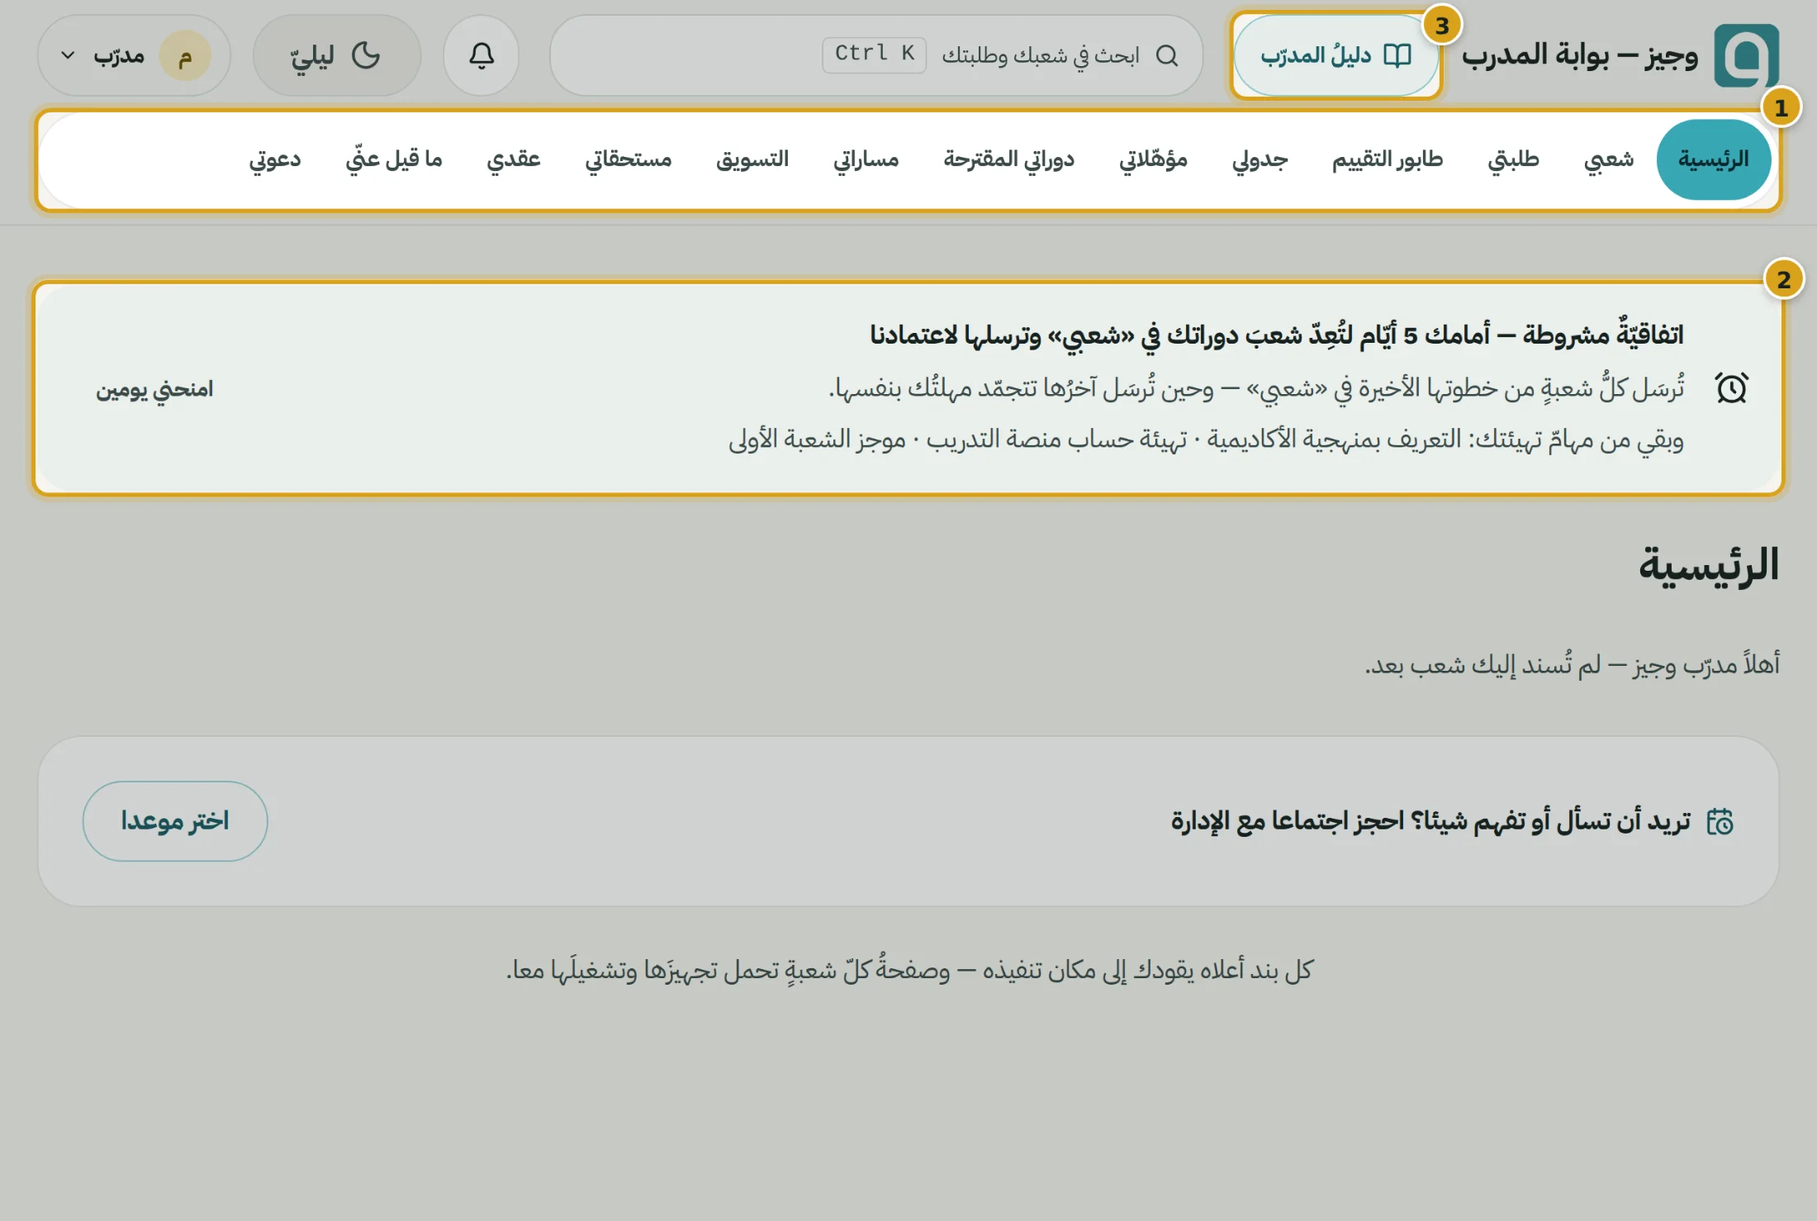
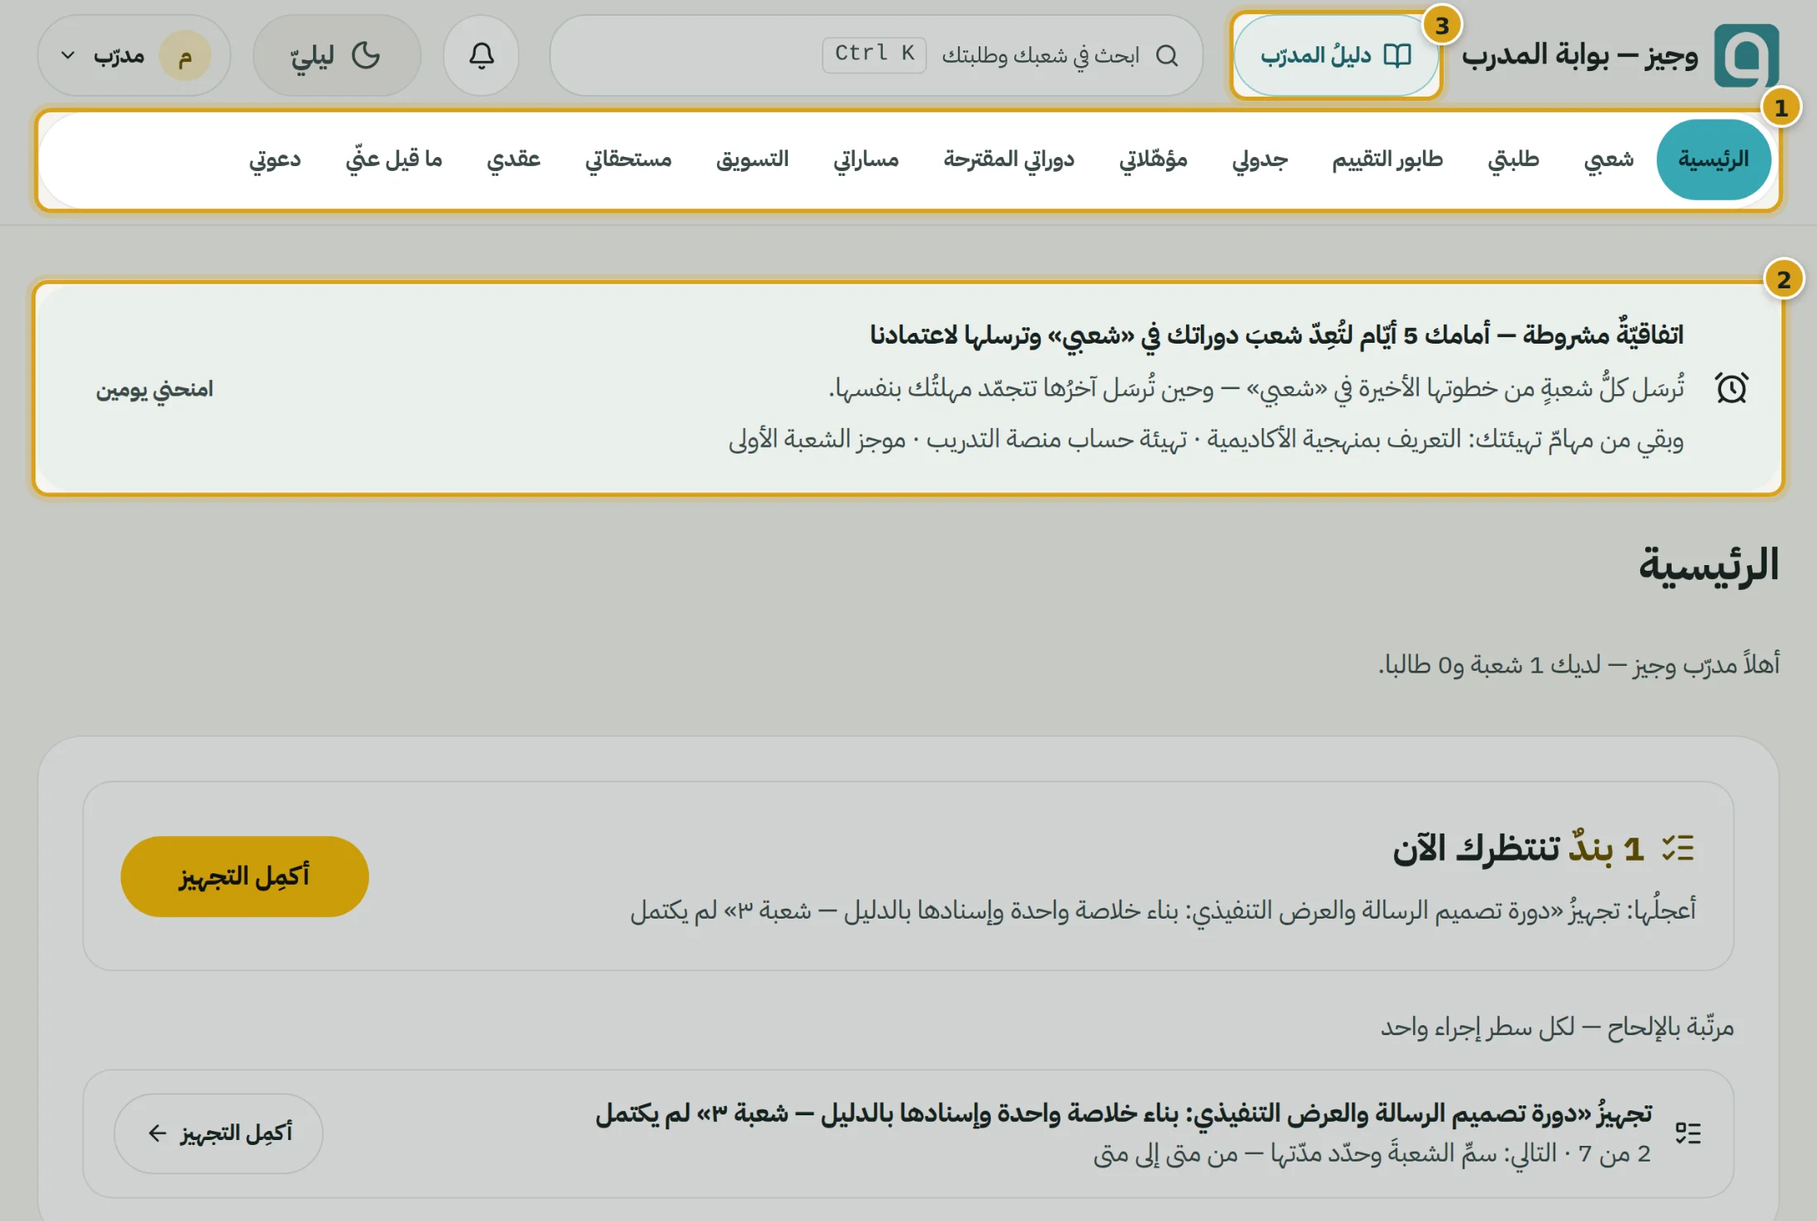
شريطُ التبويبات على الهاتف يملأ فسحتَه — وما بقي في «المزيد» (#425)
قرارُ صاحب المنصّة (٣ أكتوبر ٢٠٢٦) على صورة الهاتف — الرئيسيةُ وشعبي
وطلبتي ثمّ فراغٌ ثمّ «المزيد»: «make them appear more and what left goes
to المزيد».

· `nav-fit.ts`: `fitIndices` بدل `fitCount` — يُملأ ما بقي بالترتيب مع
  التخطّي: عريضٌ لا يسع («طابورُ التقييم» بشارته) لا يحجب ضيّقا بعده. ويُعيد
  مواضعَ المعروض، و«المزيد» يأخذ ما سواها بعينه.
· `NavPill`: حشوٌ أضيقُ دون `sm` (٨ بكسلات لا ١٢) — والحرفُ وهدفُ اللمس كما
  هما، والحاسوبُ كما كان.
· قِيس: ٣٩٠ ← أربعةٌ و«المزيد» (كانت ثلاثة)، ٤٣٠ ← خمسة.
· لقطاتُ الدليل الثلاث التي تُظهر الشريطَ أُعيد التقاطُها.
· الحارسان حُدّثا للبنية الجديدة، وحارسُ التخطّي رُئي ساقطا بالعدّ القديم.

لا تغيّرَ في رقمٍ يُقبض أو يُخصم.

Claude-Session: https://claude.ai/code/session_01KvWc79RrumheVsskoZYsA3

diff --git a/src/components/ui/PortalTabs.tsx b/src/components/ui/PortalTabs.tsx
@@ -14,7 +14,7 @@
  * صفٌّ ثانٍ لا يُرى (`invisible` و`aria-hidden`) يحمل **كلَّ** التبويبات وزرَّ
  * «المزيد» بعرضها الطبيعيّ، ويُقرأ منه عرضُ كلِّ حبّة. والصفُّ المرئيُّ لا يصلح
  * للقياس: ما خرج منه لا عرضَ له، فلا يُعرف متى يعود إن اتّسعت الشاشة. ثمّ تقرّر
- * `fitCount` كم يُعرض (`ui/nav-fit.ts`).
+ * `fitIndices` أيَّها يُعرض (`ui/nav-fit.ts`).
  *
  * و`ResizeObserver` على الاثنين: على الفسحة لأنّ عرضَها يتبدّل بالشاشة وبمعامل
  * التكبير `--app-scale`، وعلى صفّ الأشباح لأنّ عرضَ الحبّات يتبدّل بالخطّ حين
@@ -92,7 +92,7 @@ import { useLocation } from 'react-router'
 import { ChevronDown, type LucideIcon } from 'lucide-react'
 import { Inset } from '@/components/ui/Surface'
 import { NavPill, NavPillButton, NavPillGhost, NavPillMenuItem, type PillLook } from '@/components/ui/NavPill'
-import { fitCount, reservedCount } from '@/components/ui/nav-fit'
+import { fitIndices, reservedCount } from '@/components/ui/nav-fit'
 
 /** تبويبٌ في شريط البوّابة — وترتيبُه في القائمة أولويّتُه: ما يخرج أوّلا آخرُها */
 export interface PortalTab {
@@ -215,7 +215,8 @@ export interface PortalTabsProps {
 export function PortalTabs({ tabs, label, look = 'teal', fill = true, countLabel, className = '' }: PortalTabsProps) {
   const slotRef = useRef<HTMLDivElement>(null)
   const ghostRef = useRef<HTMLDivElement>(null)
-  const [shown, setShown] = useState(tabs.length)
+  /* مواضعُ المعروض لا عددُه — الملءُ يتخطّى العريضَ إلى ضيّقٍ بعده (`fitIndices`) */
+  const [shown, setShown] = useState<number[] | null>(null)
   const { pathname } = useLocation()
 
   useLayoutEffect(() => {
@@ -236,8 +237,8 @@ export function PortalTabs({ tabs, label, look = 'teal', fill = true, countLabel
       const all = [...rects, more]
       const span = Math.max(...all.map((r) => r.right)) - Math.min(...all.map((r) => r.left))
       const chrome = Math.max(0, ghost.getBoundingClientRect().width - span)
-      const next = fitCount(rects.map((r) => r.width), gap, more.width, slot.getBoundingClientRect().width - chrome)
-      flushSync(() => setShown(next))
+      const next = fitIndices(rects.map((r) => r.width), gap, more.width, slot.getBoundingClientRect().width - chrome)
+      flushSync(() => setShown((prev) => (prev && prev.join() === next.join() ? prev : next)))
     }
     const ro = new ResizeObserver(measure)
     ro.observe(slot)
@@ -250,18 +251,20 @@ export function PortalTabs({ tabs, label, look = 'teal', fill = true, countLabel
   const gap = chip ? 'gap-1.5' : ''
   const counted = tabs.filter((t) => t.count !== undefined)
   const waitingAll = counted.length ? counted.reduce((sum, t) => sum + (t.count ?? 0), 0) : undefined
+  const visible = shown ? shown.map((i) => tabs[i]).filter(Boolean) : tabs
+  const hidden = shown ? tabs.filter((_, i) => !shown.includes(i)) : []
 
   return (
     <div ref={slotRef} className={`relative flex min-w-0 items-center ${className}`}>
       <nav aria-label={label} className={`flex min-w-0 items-center ${gap} ${chrome} ${fill ? 'w-full' : 'max-w-full'}`}>
         <div className={`-m-1 flex min-w-0 items-center overflow-hidden p-1 ${gap} ${fill ? 'flex-1' : ''}`}>
-          {tabs.slice(0, shown).map((t) => (
+          {visible.map((t) => (
             <NavPill key={t.to} to={t.to} end={t.end} active={t.active} look={look} label={t.label}>
               <CountBadge count={t.count} label={countLabel} />
             </NavPill>
           ))}
         </div>
-        {shown < tabs.length && <MoreTabs key={pathname} items={tabs.slice(shown)} look={look} countLabel={countLabel} />}
+        {hidden.length > 0 && <MoreTabs key={pathname} items={hidden} look={look} countLabel={countLabel} />}
       </nav>
       <div aria-hidden="true" className="pointer-events-none invisible absolute inset-0 overflow-hidden">
         <div ref={ghostRef} className={`flex w-max items-center ${gap} ${chrome}`}>

diff --git a/src/components/ui/nav-fit.ts b/src/components/ui/nav-fit.ts
@@ -11,7 +11,7 @@
  * بأرقامٍ في Node (`src/tests/trainer/nav-fit.test.ts`) بلا متصفّحٍ ولا
  * جلسةِ مدرّب — وما يُحرَس فيه ثلاث: أنّ الكلَّ يُرى متى وسعه الشريط، وأنّ
  * مكانَ «المزيد» يُحجَز **قبل** أن يُقال إنّ تبويبا وسع، وأنّ الترتيبَ
- * أولويّة: ما يخرج أوّلا آخرُ القائمة.
+ * أولويّة يُملأ بها ما بقي من الفسحة (`fitIndices`).
  */
 
 /* سماحٌ لكسور البكسل: عرضٌ يُقاس ١٠٠٠٫٣ في شريطٍ ١٠٠٠ لا يُرى قَصُّه بعين،
@@ -25,20 +25,33 @@ const SLACK = 0.5
  * @param available عرضُ الشريط المتاح كلِّه
  * @returns عددُ ما يُعرض من أوّل القائمة؛ وما بعده لـ«المزيد»
  */
-export function fitCount(widths: readonly number[], gap: number, moreWidth: number, available: number): number {
+/* ═══ والفسحةُ تُملأ — لا يقف الشريطُ عند أوّل عريض (٣ أكتوبر ٢٠٢٦) ═══
+
+   قرارُ صاحب المنصّة على صورة الهاتف: الرئيسيةُ وشعبي وطلبتي ثمّ فراغٌ ثمّ
+   «المزيد» — «make them appear more and what left goes to المزيد». وكان العدُّ
+   يقف عند أوّل تبويبٍ لا يسع («طابورُ التقييم» بشارته)، فيُرمى كلُّ ما بعده
+   في «المزيد» ولو وسع الفراغُ اثنين منه.
+
+   فصار الملءُ بالترتيب **مع التخطّي**: يُعرض كلُّ تبويبٍ يسعه ما بقي، ويخرج
+   ما لا يسع وحدَه. والترتيبُ ما زال أولويّة — الأوّلُ يُعطى مكانَه قبل من
+   بعده — لكنّ عريضا لا يسع لا يحجب ضيّقا بعده. وتُعاد مواضعُ المعروض لا
+   عددُه، لأنّ المعروضَ لم يعد «أوّلَ N». */
+export function fitIndices(widths: readonly number[], gap: number, moreWidth: number, available: number): number[] {
   const room = available + SLACK
   const all = widths.reduce((sum, w) => sum + w, 0) + gap * Math.max(0, widths.length - 1)
-  if (all <= room) return widths.length
+  if (all <= room) return widths.map((_, i) => i)
 
   /* لا يسع الكلّ: فـ«المزيد» ظاهرٌ حتما، ومكانُه يُحجَز أوّلا ثمّ يُملأ ما
      بقي بالترتيب. ولو عُدّت التبويباتُ قبله لقيل «يسع عشرة» ثمّ جاء الزرُّ
      فقصَّ العاشر. */
   let used = moreWidth
-  let shown = 0
-  while (shown < widths.length && used + widths[shown] + gap <= room) {
-    used += widths[shown] + gap
-    shown++
-  }
+  const shown: number[] = []
+  widths.forEach((w, i) => {
+    if (used + w + gap <= room) {
+      used += w + gap
+      shown.push(i)
+    }
+  })
   return shown
 }
 

diff --git a/src/tests/mobile-and-domain.test.ts b/src/tests/mobile-and-domain.test.ts
@@ -193,15 +193,18 @@ describe("شريطُ البوّابات يُقرأ لا يُخمَّن", () => {
   it("⚠ ١٠) ولا سقفَ على ما يُرى — يُقاس، و«المزيد» لما لم يسعه وحدَه", () => {
     expect(code("src/pages/trainer/TrainerLayout.tsx"), "عاد تصنيفٌ ثابتٌ لما يُرى — فيبقى الحاسوبُ العريضُ على بعضها").not.toMatch(/\bprimary\s*:/);
     expect(comp, "عاد عددٌ مكتوبٌ لما يُرى").not.toMatch(/\.slice\(0,\s*\d+\)/);
-    /* المرئيُّ أوّلُ ما قيس، و«المزيد» يأخذ الباقي نفسَه — فلا تبويبٌ في الموضعين
-       ولا تبويبٌ في أيٍّ منهما */
-    expect(comp, "المرئيُّ ليس أوّلَ ما قيس").toMatch(/\{tabs\.slice\(0, shown\)\.map\(/);
-    expect(comp, "«المزيد» لا يأخذ ما بعد المقيس").toMatch(/<MoreTabs key=\{pathname\} items=\{tabs\.slice\(shown\)\}/);
+    /* المرئيُّ ما قيس، و«المزيد» يأخذ الباقي نفسَه — فلا تبويبٌ في الموضعين
+       ولا تبويبٌ في أيٍّ منهما. ومنذ ٣ أكتوبر ٢٠٢٦ المقيسُ مواضعُ لا عدد:
+       الملءُ يتخطّى العريضَ إلى ضيّقٍ بعده (`fitIndices`). */
+    expect(comp, "المرئيُّ ليس ما قيس").toMatch(/const visible = shown \? shown\.map\(\(i\) => tabs\[i\]\)/);
+    expect(comp, "«المزيد» لا يأخذ ما لم يُعرَض").toMatch(/const hidden = shown \? tabs\.filter\(\(_, i\) => !shown\.includes\(i\)\)/);
+    expect(comp).toMatch(/\{visible\.map\(/);
+    expect(comp).toMatch(/<MoreTabs key=\{pathname\} items=\{hidden\}/);
     /* ولا يظهر حين يسع الكلّ — وهو نصُّ القرار: «ليست داخلَ المزيد» */
-    expect(comp, "«المزيد» يظهر ولو وسع الشريطُ كلَّ التبويبات").toMatch(/\{shown < tabs\.length && <MoreTabs /);
-    /* والعددُ من القياس: من `fitCount` في مراقب الحجم، لا من غيره */
-    expect(comp, "العددُ لا يأتي من دالّة القياس").toMatch(/const next = fitCount\(/);
-    expect(comp).toMatch(/flushSync\(\(\) => setShown\(next\)\)/);
+    expect(comp, "«المزيد» يظهر ولو وسع الشريطُ كلَّ التبويبات").toMatch(/\{hidden\.length > 0 && <MoreTabs /);
+    /* والمواضعُ من القياس: من `fitIndices` في مراقب الحجم، لا من غيره */
+    expect(comp, "المواضعُ لا تأتي من دالّة القياس").toMatch(/const next = fitIndices\(/);
+    expect(comp).toMatch(/flushSync\(\(\) => setShown\(/);
   });
 
   it("⚠ ١١) وزرُّ «المزيد» خارجَ الصفّ القاصّ — وإلّا قُصَّت قائمتُه عند الحافّة", () => {

diff --git a/src/tests/trainer/nav-fit.test.ts b/src/tests/trainer/nav-fit.test.ts
@@ -8,12 +8,14 @@
    ثلاثُ حبّاتٍ بمئة، وفراغٌ بعشرة، و«المزيد» بثمانين — فالثلاثُ بفراغَيها ٣٢٠.
 
    ونُقضت الدالّةُ خمسَ مرّاتٍ فسقط في كلٍّ منها حارسٌ هنا (أعرافُ `CLAUDE.md`):
-   تركُ مكان «المزيد» بلا حجز، والملءُ بالقفز فوق العريض، والمقارنةُ بلا سماحٍ
+   تركُ مكان «المزيد» بلا حجز، والمقارنةُ بلا سماحٍ
    لكسر البكسل، وإظهارُ الكلّ دائما، و`<` مكان `<=` على الحدّ مع نزع السماح —
    وأمّا `<` والسماحُ باقٍ فلا يُرى، ولا يضرّ: الفرقُ دون نصف بكسل. */
 
 import { describe, expect, it } from 'vitest'
-import { fitCount, reservedCount } from '@/components/ui/nav-fit'
+import { fitIndices, reservedCount } from '@/components/ui/nav-fit'
+
+const fitCount = (w: readonly number[], g: number, m: number, a: number) => fitIndices(w, g, m, a).length
 
 const TABS = [100, 100, 100] as const
 const GAP = 10
@@ -43,11 +45,16 @@ describe('كم تبويبا يسعه الشريط', () => {
     expect(fitCount(TABS, GAP, MORE, 0)).toBe(0)
   })
 
-  it('⚠ والترتيبُ أولويّة — يخرج آخرُ القائمة، ولا يُقفَز فوق عريضٍ إلى ضيّقٍ بعده', () => {
-    /* الثاني عريض. ولو مُلئ الشريطُ بما يسع كيفما اتّفق لعُرض الأوّلُ والثالث
-       وخرج الثاني — والإطارُ يعرض «أوّلَ N» فيقصّ الثانيَ العريض، ويتبدّل ما
-       يبقى على الهاتف بعرض الشاشة لا بالأولويّة. */
-    expect(fitCount([100, 300, 100], GAP, MORE, 350)).toBe(1)
+  it('⚠ والفسحةُ تُملأ — عريضٌ لا يسع لا يحجب ضيّقا بعده (٣ أكتوبر ٢٠٢٦)', () => {
+    /* قرارُ صاحب المنصّة على صورة الهاتف: ثلاثةٌ ثمّ فراغٌ ثمّ «المزيد».
+       الثاني عريضٌ لا يسع، والثالثُ يسع ما بقي: فيُعرض الأوّلُ والثالث،
+       ويخرج الثاني وحدَه إلى «المزيد». وكان العدُّ يقف عند الثاني فيخرجان. */
+    expect(fitIndices([100, 300, 100], GAP, MORE, 350)).toEqual([0, 2])
+  })
+
+  it('والترتيبُ ما زال أولويّة — الأوّلُ يأخذ مكانَه قبل من بعده', () => {
+    /* ٢٠٠: يسع واحدا بعد «المزيد» — فهو الأوّل لا الأضيق */
+    expect(fitIndices([100, 60, 60], GAP, MORE, 200)).toEqual([0])
   })
 
   it('وكسرُ البكسل لا يُخرج تبويبا يسعه الشريط', () => {

diff --git a/src/components/ui/NavPill.tsx b/src/components/ui/NavPill.tsx
@@ -45,7 +45,10 @@ import type { ReactNode } from 'react'
    ويقف ١٣٦٦ على حافّتها ببكسل. والأرقامُ كاملةً في `PortalTabs`.
    والحرفُ لم يُصغَّر: شكا صاحبُ المنصّة من صغره مرّةً
    (`site-nav-size.test.ts`)، فما يُقتطَع من الفراغ لا من القراءة. */
-const PILL = 'flex min-h-11 shrink-0 items-center gap-1.5 rounded-full px-3 py-1.5 text-xs font-bold transition'
+/* ═══ وعلى الهاتف حشوٌ أضيق (٣ أكتوبر ٢٠٢٦) ═══
+   قرارُ صاحب المنصّة على صورة الهاتف: «make them appear more». فالحشوُ دون
+   `sm` ثمانيةُ بكسلاتٍ لا اثنا عشر — والحرفُ كما هو، وهدفُ اللمس كما هو. */
+const PILL = 'flex min-h-11 shrink-0 items-center gap-1 rounded-full px-2 py-1.5 text-xs font-bold transition sm:gap-1.5 sm:px-3'
 
 /* والرقاقةُ صيغةُ صفحات القسم عند المتعلّم كما كانت (`px-4` وحدٌّ)، ومعها ما
    تحتاجه لتُقاس: `shrink-0` و`min-h-11` — وهذه الأخيرةُ كانت تأتيها من
